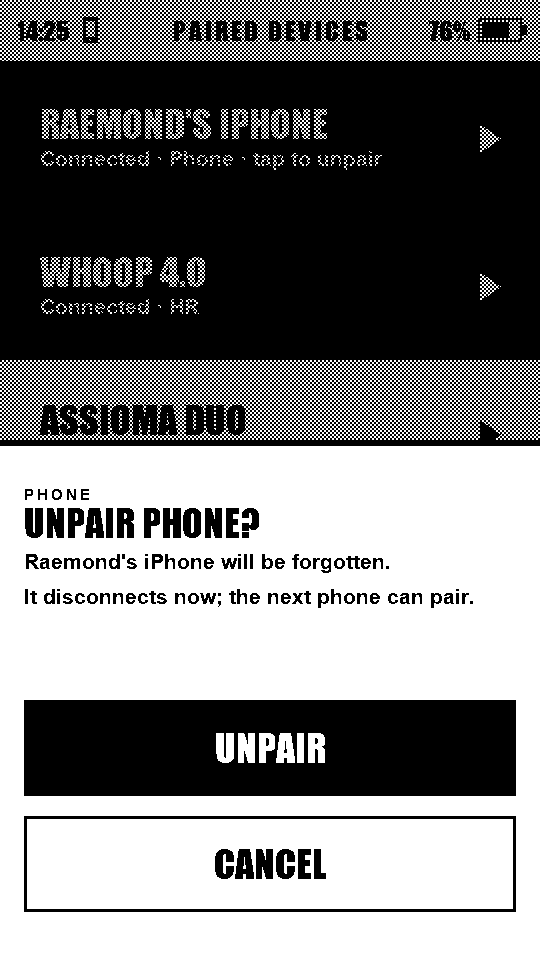
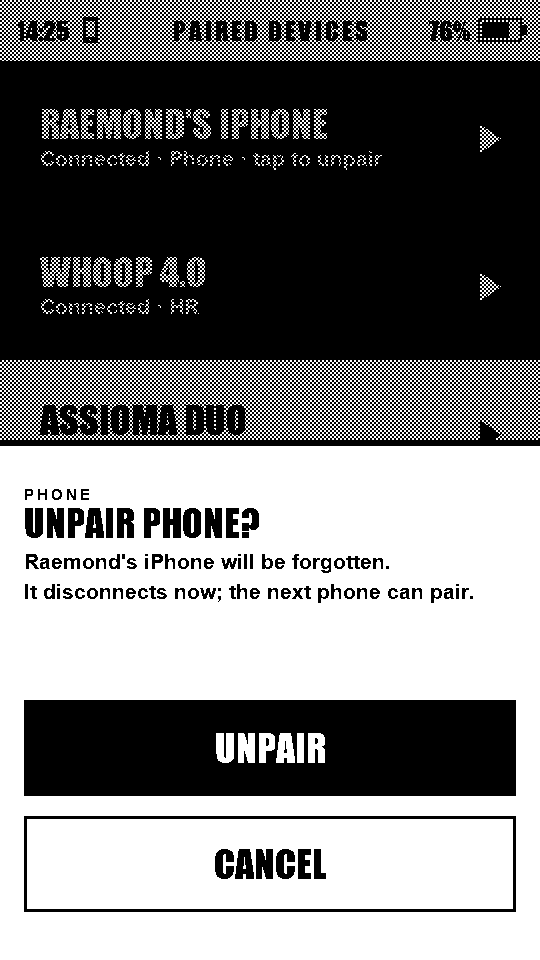
Unpair sheet: place the second line under the phone name, not on it
The 'It disconnects now' line sat at a fixed offset that assumed the smaller
hero face; 'UNPAIR PHONE?' fits the large one, so the line landed on the
phone's name. sheetHead now returns the detail baseline and the extra line
follows it.

Claude-Session: https://claude.ai/code/session_01X57ctQpfi9LeUkx8ToBKUJ

Changed region(s): [[0.3259, 0.5938, 0.7704, 0.625], [0.0593, 0.5938, 0.2963, 0.625], [0.8, 0.5938, 0.8593, 0.625]]

diff --git a/src/ui_render.cpp b/src/ui_render.cpp
@@ -1867,8 +1867,11 @@ static void sheetShell(uint8_t* fb, bool scrim = true) {
 }
 
 // Title + hero line + one detail line, at the summary's sizes exactly.
-static void sheetHead(const char* label, const char* hero, const char* detail,
-                      uint8_t* fb) {
+// Returns the baseline of the detail line (or where it would be), so a caller
+// can add a line under it: the hero steps down a size for long text, which
+// moves everything below it.
+static int sheetHead(const char* label, const char* hero, const char* detail,
+                     uint8_t* fb) {
     const int W = epd_rotated_display_width();
     const int H = epd_rotated_display_height();
     const int x = ui::MARGIN;
@@ -1915,6 +1918,7 @@ static void sheetHead(const char* label, const char* hero, const char* detail,
         ui::text(&Arial_B, x, y + Arial_B.ascender, line, fb,
                  EPD_DRAW_ALIGN_LEFT, ui::INK);
     }
+    return y + Arial_B.ascender;
 }
 
 void ui_render_power_sheet(bool recording, uint8_t* fb) {
@@ -1945,15 +1949,17 @@ void ui_render_unpair_sheet(bool paired, const char* name, int count, uint8_t* f
                  who, count - 1);
     else
         snprintf(detail, sizeof(detail), "%s will be forgotten.", who);
-    sheetHead("PHONE", "UNPAIR PHONE?", detail, fb);
+    const int detailBase = sheetHead("PHONE", "UNPAIR PHONE?", detail, fb);
     // A second line straight under sheetHead's detail line, same face: what
-    // happens next. (The detail baseline sits 76 px below the hero's top.)
+    // happens next. Placed from the detail's real baseline — a fixed offset
+    // assumed the smaller hero face, and "UNPAIR PHONE?" fits the big one, so
+    // this line landed on top of the phone's name.
     const int W = epd_rotated_display_width();
-    const int H = epd_rotated_display_height();
     char next[72];
     fitText(&Arial_B, "It disconnects now; the next phone can pair.",
             W - 2 * ui::MARGIN, next, sizeof(next));
-    ui::text(&Arial_B, ui::MARGIN, (H - 520) + 6 + 40 + 118, next, fb,
+    ui::text(&Arial_B, ui::MARGIN,
+             detailBase + (Arial_B.ascender - Arial_B.descender) + 6, next, fb,
              EPD_DRAW_ALIGN_LEFT, ui::INK);
     sheetButton(kPowerShutdown, "UNPAIR", true, fb);
     sheetButton(kPowerCancel, "CANCEL", false, fb);
